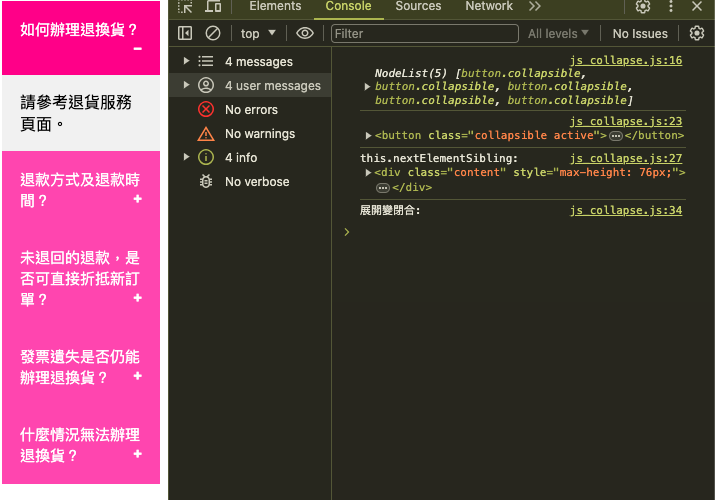
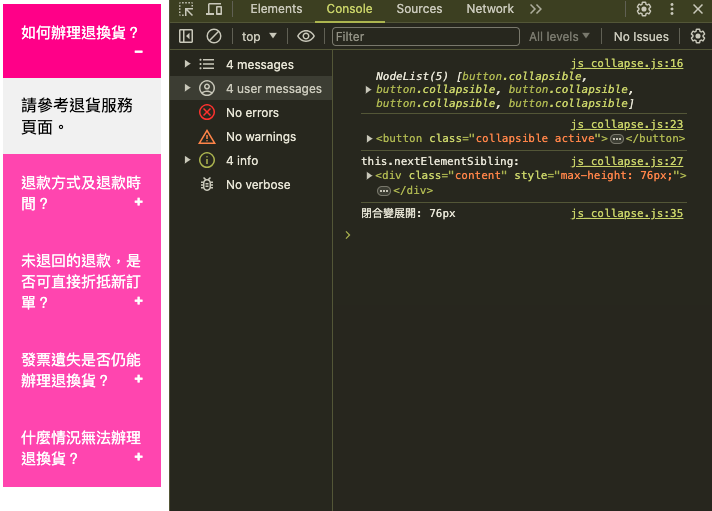
Site updated: 2024-06-01 01:40:28

Changed region(s): [[0.0, 0.0, 1.0, 1.0], [0.4635, 0.45, 0.4944, 0.48]]

diff --git a/2024/05/26/OneDayOneNote/index.html b/2024/05/26/OneDayOneNote/index.html
@@ -41,7 +41,7 @@
 <meta property="og:image" content="https://lilylovesjeans.github.io/apple.lily/2024/05/26/OneDayOneNote/collapse-04.png">
 <meta property="og:image" content="https://lilylovesjeans.github.io/apple.lily/2024/05/26/OneDayOneNote/collapse-05.png">
 <meta property="article:published_time" content="2024-05-26T14:46:38.000Z">
-<meta property="article:modified_time" content="2024-05-31T17:31:58.000Z">
+<meta property="article:modified_time" content="2024-05-31T17:40:02.000Z">
 <meta property="article:author" content="Apple.Lily">
 <meta property="article:tag" content="CSS">
 <meta property="article:tag" content="OneNote">
@@ -219,7 +219,7 @@
         <i class="far fa-calendar-check"></i>
       </span>
       <span class="post-meta-item-text">更新於</span>
-      <time title="修改時間：2024-06-01 01:31:58" itemprop="dateModified" datetime="2024-06-01T01:31:58+08:00">2024-06-01</time>
+      <time title="修改時間：2024-06-01 01:40:02" itemprop="dateModified" datetime="2024-06-01T01:40:02+08:00">2024-06-01</time>
     </span>
     <span class="post-meta-item">
       <span class="post-meta-item-icon">
@@ -291,7 +291,7 @@
 <p>以”click” 作為其第一引數來呼叫 addEventListener()並不會影響到 onclick特性的值。<br> 這段程式碼中,一次按鈕點擊(button click)會在開發人員主控台記錄兩個訊息。<br> 如果我們先呼叫 addEventListener()然後再設定 onclick,我們仍然會看到兩個訊息，只是順序相反。<br> 更重要的是,你可以多次呼叫 addEventListener()以在同一個物件上為相同的事件類型註冊一個以上的處理器函式,<br> 當一個事件在一個物件上發生,為那個註冊的所有處理器都會被調用,並以它們當初註冊的順序進行。<br> 在同一個物件以上以相同的引數調用 addEventListener()超過一次,不會有什麼效果,該處理器函式仍然只註冊了一次,<br> 而這種重複調用並不會改變處理器被調用的順序。</p>
 <p> 摘錄 JavaScript 大全第七版 第456頁</p>
 <h2 id="2024-05-3-了解-JavaScript-的-addEventListener-事件，用-console-log-追踪"><a href="#2024-05-3-了解-JavaScript-的-addEventListener-事件，用-console-log-追踪" class="headerlink" title="2024-05-3 了解 JavaScript 的 addEventListener() 事件，用 console.log 追踪"></a>2024-05-3 了解 JavaScript 的 addEventListener() 事件，用 console.log 追踪</h2><p>javascript 程式碼如下 ，：</p>
-<figure class="highlight javascript"><table><tr><td class="gutter"><pre><span class="line">1</span><br><span class="line">2</span><br><span class="line">3</span><br><span class="line">4</span><br><span class="line">5</span><br><span class="line">6</span><br><span class="line">7</span><br><span class="line">8</span><br><span class="line">9</span><br><span class="line">10</span><br><span class="line">11</span><br><span class="line">12</span><br><span class="line">13</span><br><span class="line">14</span><br><span class="line">15</span><br><span class="line">16</span><br><span class="line">17</span><br><span class="line">18</span><br><span class="line">19</span><br><span class="line">20</span><br><span class="line">21</span><br><span class="line">22</span><br><span class="line">23</span><br><span class="line">24</span><br><span class="line">25</span><br><span class="line">26</span><br><span class="line">27</span><br><span class="line">28</span><br><span class="line">29</span><br><span class="line">30</span><br><span class="line">31</span><br><span class="line">32</span><br><span class="line">33</span><br><span class="line">34</span><br><span class="line">35</span><br><span class="line">36</span><br><span class="line">37</span><br><span class="line">38</span><br><span class="line">39</span><br></pre></td><td class="code"><pre><span class="line"></span><br><span class="line"><span class="comment">// 程式碼說明, FAQ 的展開與晰合 ：</span></span><br><span class="line"><span class="comment">// 抓取所有 類別選取器 為 collapsible 的元素，</span></span><br><span class="line"><span class="comment">// 抓到之後 ，跑 for 迴圈</span></span><br><span class="line"><span class="comment">// 利用addEventListener 監聽當使用者按下「某個問題」的 click 事件時</span></span><br><span class="line"><span class="comment">// 呼叫調用函式 ，</span></span><br><span class="line"><span class="comment">// 調用情境(this) ，這個程式的 this 就是 button 元素，</span></span><br><span class="line"><span class="comment">//  button 元素自動偵測是否帶有該class 並做切換&quot;active&quot; class</span></span><br><span class="line"><span class="comment">// 下一步，判斷此 button 的下一個元素，其樣式名稱為 maxHeight, </span></span><br><span class="line"><span class="comment">// 如果maxHeight 有值,表示目前這個問題的 答案是展開的，要將它閉合</span></span><br><span class="line"><span class="comment">//反之 ，則展開,並賦予scrollHeight 高度的值</span></span><br><span class="line"></span><br><span class="line"><span class="keyword">var</span> coll = <span class="variable language_">document</span>.<span class="title function_">querySelectorAll</span>(<span class="string">&#x27;.collapsible&#x27;</span>);</span><br><span class="line"></span><br><span class="line"><span class="keyword">var</span> coll = <span class="variable language_">document</span>.<span class="title function_">querySelectorAll</span>(<span class="string">&#x27;.collapsible&#x27;</span>);</span><br><span class="line"><span class="keyword">var</span> i;</span><br><span class="line"><span class="variable language_">console</span>.<span class="title function_">log</span>( coll);</span><br><span class="line"></span><br><span class="line"></span><br><span class="line"><span class="keyword">for</span> (i = <span class="number">0</span>; i &lt; coll.<span class="property">length</span>; i++) &#123;</span><br><span class="line">  coll[i].<span class="title function_">addEventListener</span>(<span class="string">&quot;click&quot;</span>, <span class="keyword">function</span>(<span class="params"></span>) &#123;</span><br><span class="line">    <span class="variable language_">this</span>.<span class="property">classList</span>.<span class="title function_">toggle</span>(<span class="string">&quot;active&quot;</span>);</span><br><span class="line"></span><br><span class="line">    <span class="variable language_">console</span>.<span class="title function_">log</span>(<span class="variable language_">this</span>);</span><br><span class="line"></span><br><span class="line">    <span class="keyword">var</span> content = <span class="variable language_">this</span>.<span class="property">nextElementSibling</span>;</span><br><span class="line"></span><br><span class="line">    <span class="variable language_">console</span>.<span class="title function_">log</span>(<span class="string">&#x27;this.nextElementSibling: &#x27;</span> , <span class="variable language_">this</span>.<span class="property">nextElementSibling</span></span><br><span class="line">    )</span><br><span class="line"></span><br><span class="line">    <span class="keyword">if</span> (content.<span class="property">style</span>.<span class="property">maxHeight</span>)&#123;</span><br><span class="line">        <span class="variable language_">console</span>.<span class="title function_">log</span>(<span class="string">&#x27;閉合變展開: &#x27;</span>+ content.<span class="property">style</span>.<span class="property">maxHeight</span>)</span><br><span class="line">      content.<span class="property">style</span>.<span class="property">maxHeight</span> = <span class="literal">null</span>;</span><br><span class="line">    &#125; <span class="keyword">else</span> &#123;</span><br><span class="line">      <span class="variable language_">console</span>.<span class="title function_">log</span>(<span class="string">&#x27;展開變閉合: &#x27;</span>+ content.<span class="property">style</span>.<span class="property">maxHeight</span>)</span><br><span class="line">      content.<span class="property">style</span>.<span class="property">maxHeight</span> = content.<span class="property">scrollHeight</span> + <span class="string">&quot;px&quot;</span>;</span><br><span class="line">    &#125; </span><br><span class="line">  &#125;);</span><br><span class="line">&#125;</span><br></pre></td></tr></table></figure>
+<figure class="highlight javascript"><table><tr><td class="gutter"><pre><span class="line">1</span><br><span class="line">2</span><br><span class="line">3</span><br><span class="line">4</span><br><span class="line">5</span><br><span class="line">6</span><br><span class="line">7</span><br><span class="line">8</span><br><span class="line">9</span><br><span class="line">10</span><br><span class="line">11</span><br><span class="line">12</span><br><span class="line">13</span><br><span class="line">14</span><br><span class="line">15</span><br><span class="line">16</span><br><span class="line">17</span><br><span class="line">18</span><br><span class="line">19</span><br><span class="line">20</span><br><span class="line">21</span><br><span class="line">22</span><br><span class="line">23</span><br><span class="line">24</span><br><span class="line">25</span><br><span class="line">26</span><br><span class="line">27</span><br><span class="line">28</span><br><span class="line">29</span><br><span class="line">30</span><br><span class="line">31</span><br><span class="line">32</span><br><span class="line">33</span><br><span class="line">34</span><br><span class="line">35</span><br><span class="line">36</span><br><span class="line">37</span><br><span class="line">38</span><br><span class="line">39</span><br><span class="line">40</span><br><span class="line">41</span><br><span class="line">42</span><br></pre></td><td class="code"><pre><span class="line"></span><br><span class="line"><span class="comment">// 程式碼說明, FAQ 的展開與晰合 ：</span></span><br><span class="line"><span class="comment">// 抓取所有 類別選取器 為 collapsible 的元素，</span></span><br><span class="line"><span class="comment">// 抓到之後 ，跑 for 迴圈</span></span><br><span class="line"><span class="comment">// 利用addEventListener 監聽當使用者按下「某個問題」的 click 事件時</span></span><br><span class="line"><span class="comment">// 呼叫調用函式 ，</span></span><br><span class="line"><span class="comment">// 調用情境(this) ，這個程式的 this 就是 button 元素，</span></span><br><span class="line"><span class="comment">//  button 元素自動偵測是否帶有該class 並做切換&quot;active&quot; class</span></span><br><span class="line"><span class="comment">// 下一步，判斷此 button 的下一個元素，其樣式名稱為 maxHeight, </span></span><br><span class="line"><span class="comment">// 如果maxHeight 有值,表示目前這個問題的 答案是展開的，要將它閉合</span></span><br><span class="line"><span class="comment">//反之 ，則展開,並賦予scrollHeight 高度的值</span></span><br><span class="line"></span><br><span class="line"><span class="keyword">var</span> coll = <span class="variable language_">document</span>.<span class="title function_">querySelectorAll</span>(<span class="string">&#x27;.collapsible&#x27;</span>);</span><br><span class="line"></span><br><span class="line"><span class="keyword">var</span> coll = <span class="variable language_">document</span>.<span class="title function_">querySelectorAll</span>(<span class="string">&#x27;.collapsible&#x27;</span>);</span><br><span class="line"><span class="keyword">var</span> i;</span><br><span class="line"><span class="variable language_">console</span>.<span class="title function_">log</span>( coll);</span><br><span class="line"></span><br><span class="line"></span><br><span class="line"><span class="keyword">for</span> (i = <span class="number">0</span>; i &lt; coll.<span class="property">length</span>; i++) &#123;</span><br><span class="line">  coll[i].<span class="title function_">addEventListener</span>(<span class="string">&quot;click&quot;</span>, <span class="keyword">function</span>(<span class="params"></span>) &#123;</span><br><span class="line">    <span class="variable language_">this</span>.<span class="property">classList</span>.<span class="title function_">toggle</span>(<span class="string">&quot;active&quot;</span>);</span><br><span class="line"></span><br><span class="line">    <span class="variable language_">console</span>.<span class="title function_">log</span>(<span class="variable language_">this</span>);</span><br><span class="line"></span><br><span class="line">    <span class="keyword">var</span> content = <span class="variable language_">this</span>.<span class="property">nextElementSibling</span>;</span><br><span class="line"></span><br><span class="line">    <span class="variable language_">console</span>.<span class="title function_">log</span>(<span class="string">&#x27;this.nextElementSibling: &#x27;</span> , <span class="variable language_">this</span>.<span class="property">nextElementSibling</span></span><br><span class="line">    )</span><br><span class="line"></span><br><span class="line">    <span class="keyword">if</span> (content.<span class="property">style</span>.<span class="property">maxHeight</span>)&#123;</span><br><span class="line">      content.<span class="property">style</span>.<span class="property">maxHeight</span> = <span class="literal">null</span>;</span><br><span class="line">      <span class="variable language_">console</span>.<span class="title function_">log</span>(<span class="string">&#x27;展開變閉合: &#x27;</span>+ content.<span class="property">style</span>.<span class="property">maxHeight</span>)</span><br><span class="line">    &#125; <span class="keyword">else</span> &#123;</span><br><span class="line">  </span><br><span class="line">      content.<span class="property">style</span>.<span class="property">maxHeight</span> = content.<span class="property">scrollHeight</span> + <span class="string">&quot;px&quot;</span>;</span><br><span class="line">      <span class="variable language_">console</span>.<span class="title function_">log</span>(<span class="string">&#x27;閉合變展開: &#x27;</span>+ content.<span class="property">style</span>.<span class="property">maxHeight</span>)</span><br><span class="line">    &#125; </span><br><span class="line">  &#125;);</span><br><span class="line">&#125;</span><br><span class="line"></span><br><span class="line"></span><br></pre></td></tr></table></figure>
 
 <p>用 console.log（）追踪 ：<br> <img src="/apple.lily/2024/05/26/OneDayOneNote/collapse-01.png"><br> <img src="/apple.lily/2024/05/26/OneDayOneNote/collapse-02.png"><br> <img src="/apple.lily/2024/05/26/OneDayOneNote/collapse-03.png"><br> <img src="/apple.lily/2024/05/26/OneDayOneNote/collapse-04.png"><br> <img src="/apple.lily/2024/05/26/OneDayOneNote/collapse-05.png"><br>&#96;&#96;&#96;</p>
 

diff --git a/index.html b/index.html
@@ -640,7 +640,7 @@
         <i class="far fa-calendar-check"></i>
       </span>
       <span class="post-meta-item-text">更新於</span>
-      <time title="修改時間：2024-06-01 01:31:58" itemprop="dateModified" datetime="2024-06-01T01:31:58+08:00">2024-06-01</time>
+      <time title="修改時間：2024-06-01 01:40:02" itemprop="dateModified" datetime="2024-06-01T01:40:02+08:00">2024-06-01</time>
     </span>
     <span class="post-meta-item">
       <span class="post-meta-item-icon">

diff --git a/css/main.css b/css/main.css
@@ -1234,7 +1234,7 @@ pre code {
     vertical-align: middle;
   }
   .links-of-author a::before {
-    background: #74eb36;
+    background: #ff98ff;
     display: inline-block;
     margin-right: 3px;
     transform: translateY(-2px);
